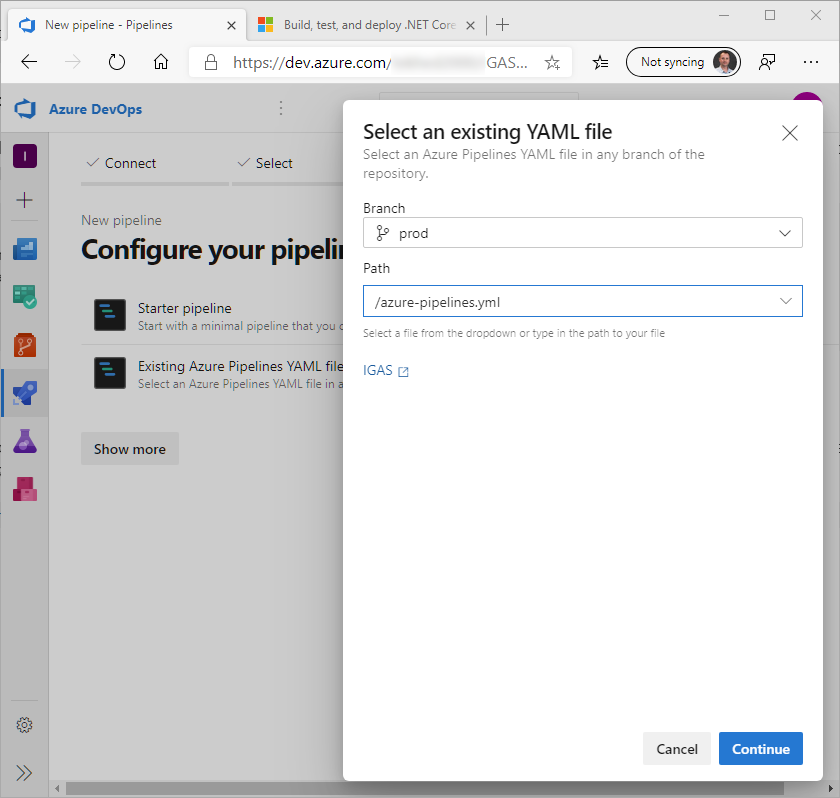
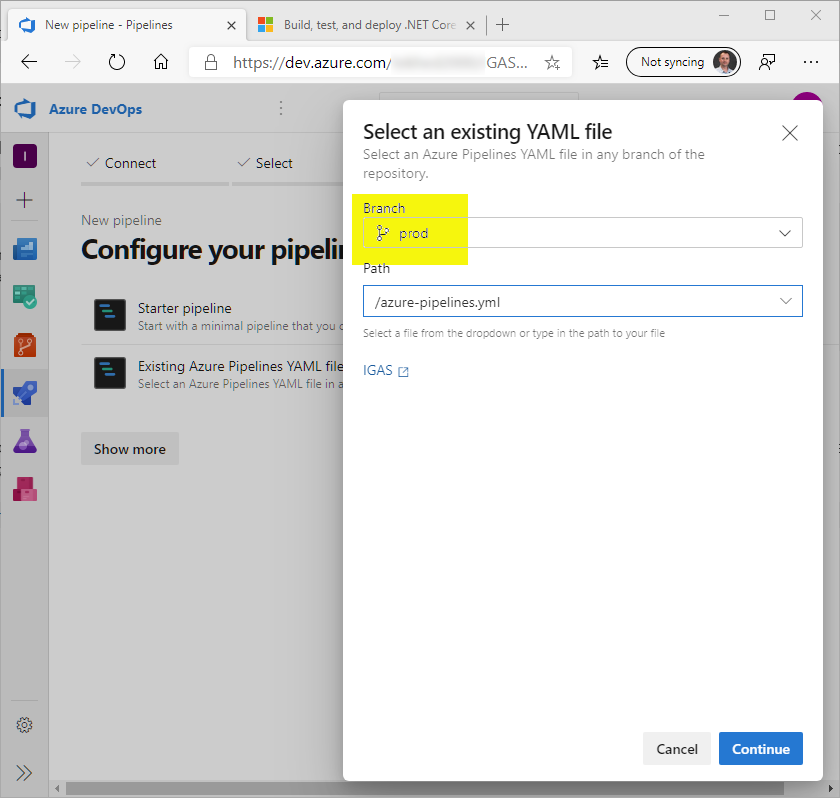
editing

Changed region(s): [[0.4024, 0.2406, 0.5571, 0.3308]]

diff --git a/WorkshopFiles/content/exercise_2.md b/WorkshopFiles/content/exercise_2.md
@@ -22,11 +22,18 @@ Make sure you have completed the prerequisites so you have an Azure DevOps organ
  In just a moment you will create a Build of the project in Azure DevOps. But first, let's go over what I have changed between what you have done so far on the master branch and Prod branch which we will be working with from here on out. You can view the files in the DevOps user interface or in your IDE by changing to the Prod branch.
 
  #### Changes to Program.cs
-In the setup of the Environment Variable configuration provider I have included a prefix argument of "IGAS_". This means that only environment variables that begin with "IGAS_" will be pulled into configuration. Note that the prefix itself will be removed. If you have an environment variable named "IGAS_Password" then your C# code will need to look for just "Password".
 
 ```CSharp
- config.AddEnvironmentVariables(prefix: "IGAS_");
+  //Tweaking configuration
+  AddProdSettingsAndPrefixEnvVars(builder).Build().Run();
 ```
+
+ I have reverted the code back to using the default host builder, except I have injected two things. 
+
+ First, another json file is added. We will see this again in exercise 5. For now you can basically ignore it.
+
+ Next, in the setup of the Environment Variable configuration provider I have included a prefix argument of "IGAS_". This means that only environment variables that begin with "IGAS_" will be pulled into configuration. Note that the prefix itself will be removed. If you have an environment variable named "IGAS_Password" then your C# code will need to look for just "Password". I have done this simply to remove "noise" from our request results. Seeing every environment variable echoed back would be overwhelming.
+
  #### Changes to ConfigurationController.cs
 The `Get()` method has been modified to return all configuration settings instead of writing a line of code for each one (e.g. `_config.GetValue<string>("..setting..")`). This will allow us to focus on how and where to set configuration without needing to make a bunch of code edits. It also facilitates experimentation because any changes you make, regardless of the technique, will echo back from your API call.
  ```CSharp
@@ -35,25 +42,34 @@ var AllConfigSettings = _config.AsEnumerable()
 
 return AllConfigSettings;
 ```
+Additionally, another action has been added that will also return all configuration items, except it will group and display them by provider. Normally you do not care what provider a setting comes from but this information is helpful for demonstration purposes. It gives visibility into how you can provide a setting from one provider at debug time and another in production. You access this action by adding "/all" to your request URL.
+
+````CSharp
+  [HttpGet]
+  [Route("all")]
+  public IEnumerable<ProviderViewModel> GetAll()
+  //...
+````
 #### Changes to appsettings.json
-The appsettings file has been modified to include a few fictitious settings. The values are formatted as "\_\_*value*\_\_". The double underscores are meant to make the value a "token" that can be replaced during deployment.
+The appsettings file has been modified to include a few fictitious settings. The values are blank because they will be filled in by the Azure DevOps Release pipeline. 
 ```JSON
 {
-    "ConnectionString" : "__ConnectionString__",
-    "StockQuoteAPIURL" : "__StockQuoteAPIURL__",
-    "Password" : "__Password__"
+    "ConnectionString" : "",
+    "StockQuoteAPIURL" : "",
+    "Password" : ""
 }
 ```
 <a id="setupabuild"></a>
  ## Setup a Build
- We don't have a lot of work to do in the Build pipeline. There are no configuration steps included here (though you could), we just need to have a published project to deploy in the Release pipeline. It is in the Release Pipeline that we will manage configuration.
+ We don't have a lot of work to do in the Build pipeline. There are no configuration steps included here (though you could), we just need to have a published project to deploy in the Release pipeline. It is in the Release Pipeline that we will manage most configuration. In exercise 5 we will revisit this build when we work with Secure Files.
  > [More information on Build pipelines](https://docs.microsoft.com/en-us/azure/devops/pipelines/ecosystems/dotnet-core?view=azure-devops#package-and-deliver-your-code)
 
 1. Click on the Rocket Ship icon to open Pipelines and then click "Create Pipeline"
 1. Choose Azure Repos Git YAML
 1. Select the IGAS Git code repository
 1. (this step may not be necessary, your .yml file may be chosen automatically) Select Existing Azure Pipelines YAML file. 
-1. (this step may not be necessary, your .yml file may be chosen automatically) Select the "prod" branch and "azure-pipelines.yml" file.
+1. (this step may not be necessary, your .yml file may be chosen automatically) **Select the "prod" branch** and "azure-pipelines.yml" file.
+    > VERY IMPORTANT: make sure you select the prod branch, not master. The master branch was hacked up to demonstrate configuration providers and sections that are required for Azure hosting were removed and therefore will not run in Azure.
 1. Click run to build the project and produce an artifact that will be deployed later in a Release pipeline.
 1. Review the successful deployment.
 
@@ -77,42 +93,62 @@ The appsettings file has been modified to include a few fictitious settings. The
 
 > [workshop.ps1 in the scripts folder has all the commands you will see here, in an easier to execute format](../scripts/workshop.ps1)
 
-You will execute the following Powershell commands to create a Resource Group, an Azure App Service Plan, and a Web App, **but edits are required.**
-1. [Optional] If your default subscription is not the one you want to use for this workshop, uncomment **line 10** and enter the Azure Subscription ID you want to use.
-1. [Optional] On **line 15** change the location to a region closest to you.
-1. On **line 24** enter a value to be used as a prefix to the web app name. This must be unique across Azure. Your site will be accessed at "https://~your prefix~-igas-01.azurewebsites.net". Feel free to completely change this name as desired.
+You will execute the following Powershell commands to create a Resource Group, an Azure App Service Plan, and a Web App.
+1. Connect to your Azure subscription. Run the following Powershell command and do the login dance. If you keep your Powershell terminal open throughout the workshop you should not need to log in again.
+    ```PowerShell
+    Connect-AzAccount
+    ````
+    Output:
+    ````
+    Account                 SubscriptionName                   TenantId                             Environment
+    -------                 ----------------                   --------                             -----------
+    tekhed_2000@hotmail.com Visual Studio Enterprise: BizSpark xxxxxxxx-xxxx-xxxx-xxxx-xxxxxxxxxxxx AzureCloud
+    ````
+1. [**Optional**] If your default subscription is not the one you want to use for this workshop, then you will need to set it manually. Use the following command to acquire the subscription id you want to use:
+    ````Powershell
+    Get-AzSubscription
+    ````
+    Output (will vary):
+    ````
+    Name                    Id               TenantId
+    ----                    --               --------
+    Visual Studio E...     xxxxxxxx-xxxx...  xxxxxxxx-xxxx-...
+    Windows Azure M...     xxxxxxxx-xxxx-... xxxxxxxx-xxxx-...
+    ````
 
-```PowerShell
-# Authenticate to Azure
-Connect-AzAccount
+1. [**Optional**] If you need to change your active session's connected subscription, run this command to set it. Use the `Id` value from the subscription you chose to use from step 2.
+    ````Powershell
+    Set-AzContext -SubscriptionId "xxxxxxxx-xxxx..."
+    ````
+    Output:
+    ````
+    Name              Account              SubscriptionName           Environment            TenantId
+    ----              -------              ----------------           -----------            --------
+    Visual S...       tekhed_2000@...    Visual Studio E...           AzureCloud             xxxxxxxx-xxxx-...
+    ````
+1. The following commands create a Resource Group to contain all of the workshop-related resources, an App Service Plan which is the actual infrastructure that can run an application, then finally the App Service, with a random name. The random name is to ensure uniqueness across Azure since it is part of the public URL. It will likely take a few moments for all of the commands to complete.
+    ````PowerShell
+    # Create resource group to hold all resources for the tutorial.
+    # Change the region as appropriate for your location
+    $groupName = "rg-igas-01"
+    $location = "eastus"
+    New-AzResourceGroup -Name $groupName -Location $location
 
-# List the subscriptions your account has access to
-Get-AzSubscription
+    # Create an app service plan
+    $plan = New-AzAppServicePlan -Location $location  -Name "asp-igas-01" -ResourceGroupName $groupName -Tier "S1"
 
-# You may have multiple subscriptions. If the one you want to use for this tutorial
-# is not your default subscription, you can do this to change what subscription
-# this script will operate against.
-# Set-AzContext -SubscriptionId "<enter your subscription id>"
+    # Create the App Service to host the application
+    # The name has to be unique across all of Azure because it is part of the public URL.
+    # This generates a random name.
+    $prefix = [System.IO.Path]::GetFileNameWithoutExtension([System.IO.Path]::GetRandomFileName())
+    Write-Debug $prefix
+    $app = New-AzWebApp -ResourceGroupName $groupName -Name "$prefix-igas-01" -Location $location -AppServicePlan $plan.Id
 
-# Create resource group to hold all resources for the tutorial.
-# Change the region as appropriate for your location
-$groupName = "rg-igas-01"
-$location = "eastus"
-New-AzResourceGroup -Name $groupName -Location $location
+    # Browse to the URL of the new application to make sure the app service is up.
+    $newurl = "https://$prefix-igas-01.azurewebsites.net"
+    [System.Diagnostics.Process]::Start($newurl)
 
-# Create an app service plan
-$plan = New-AzAppServicePlan -Location $location  -Name "asp-igas-01" -ResourceGroupName $groupName -Tier "S1"
-
-# Create the App Service to host the application
-# The name has to be unique across all of Azure because it is part of the public URL.
-# Set the prefix variable to something unique, either completely random or meaningful, doesn't matter.
-$prefix = "???"
-$app = New-AzWebApp -ResourceGroupName $groupName -Name "$prefix-igas-01" -Location $location -AppServicePlan $plan.Id
-
-# Browse to the URL of the new application to make sure the app service is up.
-$newurl = "https://$prefix-igas-01.azurewebsites.net"
-[System.Diagnostics.Process]::Start($newurl)
-```
+    ````
 > Feel free to check out the App Service in Azure. It should look something like this:
 
 ![New App Service](./img/appsvc-1.png)
@@ -128,13 +164,15 @@ Now that you have a place to deploy your application, it is time to create a Rel
 1. Choose your Azure Subscription and click Authorize.
 1. Once the pipeline is authorized, you can choose the App Service from the drop down list.
 1. Save
-1. This is asking you to create or choose a folder to save the pipeline in. For simplicity you can just accept the default root folder. 
-1. Now that the pipeline is fully defined you can "Create a Release". This will run the pipeline as it exists at this time. You can re-execute a release at any time but it will be configured as it was at the time of creation. Any pipeline changes do not affect already executed releases, though you can edit a previous release and execute it if necessary.
+1. The save dialog is asking you to create or choose a folder to save the pipeline in. For simplicity you can just accept the default root folder. 
+1. Now that the pipeline is fully defined you can "Create a Release". 
 1. Now, execute a release. Click "Create".
 1. Click "Release-1" to go to the release instance you just created. As you create future releases they will become Release-2, Release-3, etc.
 1. The default release properties have it set to deploy automatically so you should see that it is running. You can configure it to only deploy manually if you prefer.
 1. When it is done you should see a Succeeded confirmation.
 1. Test the application to ensure it works. Make a GET request to the URL of your app service. Other than the random host name, it will be like this: https://aqixjv2y-igas-01.azurewebsites.net/Configuration/all . I have chosen to use Postman as my HTTP client. Notice there is not much configuration detail returned. Let's change that in [exercise 3](exercise_3.md).
+
+> IF YOUR APP ISN'T WORKING: You may have built the master branch instead of the prod branch. No worries, just go do another build, making sure to select the prod branch and then do another release from the Release pipeline you built above. 
 
 
   | Step 1 | Step 2 | Step 3 | 

diff --git a/WorkshopFiles/content/exercise_1.md b/WorkshopFiles/content/exercise_1.md
@@ -174,11 +174,12 @@ Lets pull in a value from each of the registered providers and wire up our appli
 1. This will allow you to list the environment variables as if they were files in a folder. Now run `dir`
 1. Choose any variable you'd like to add to the API's output. I'm going to choose the `TMP` variable.
 1. Go back to ConfigurationController.cs and delete everything in the `Get()` method.
-1. Now use one of the code snippets by typing `getall` then tab. Your `Get()` method should look like this:
+1. Now replace the code with the listing below. If you are using VS Code, use one of the code snippets by typing `getall` then tab. Your `Get()` method should look like this:
     ````csharp
     [HttpGet]
     public IEnumerable<string> Get()
     {
+        // replace from here...
         string envVar = _config.GetValue<string>("TMP") ?? "NOT SET";
         string userSecret = _config.GetValue<string>("MyUserSecret") ?? "NOT SET";
         string appSetting = _config.GetValue<string>("FromAppSettings") ?? "NOT SET";
@@ -188,6 +189,7 @@ Lets pull in a value from each of the registered providers and wire up our appli
             $"User Secret MyUserSecret = {userSecret}",
             $"App Setting FromAppSettings = {appSetting}"
         };
+        // .. to here
     }
     ````
 1. Run the project and observe the output.
